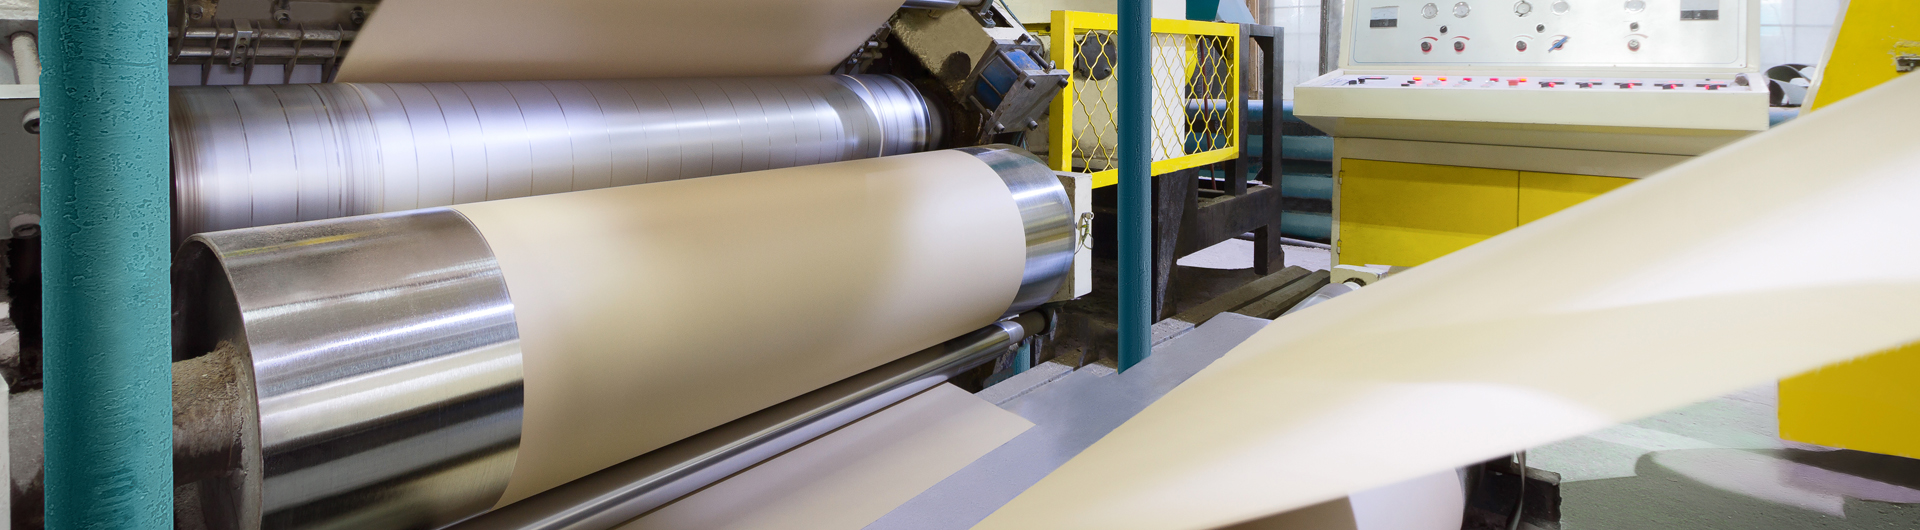
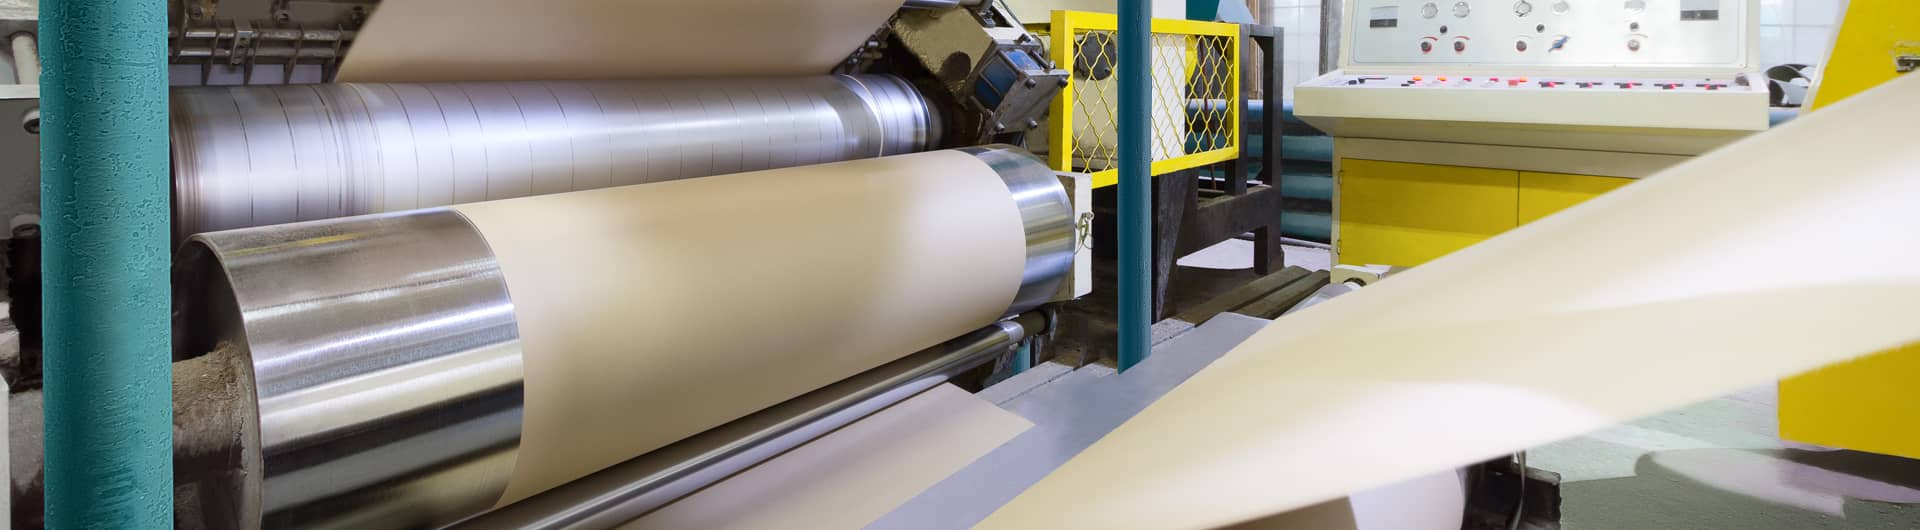
Imgs from Main and Clients converted to webp

Changed region(s): [[0.5312, 0.0302, 0.6562, 0.3321], [0.6875, 0.483, 0.7188, 0.5132]]

diff --git a/index.html b/index.html
@@ -109,7 +109,7 @@
         <div class="row align-items-center">
           <div class="col-12 col-md-5">
             <div class="main-img hidden-mobile">
-              <img src="img/main/main-img.png" alt="Картон" class="animate">
+              <img src="img/main/main-img.webp" alt="Картон" class="animate">
             </div>
             <!-- /.main-img -->
           </div>
@@ -597,32 +597,32 @@
         <div class="row">
           <div class="col-6 col-sm-6 col-md-3">
             <div class="client-block animate__animated wow animate__jackInTheBox" data-wow-delay="0.1s">
-              <img src="img/clients/client-1-black.png" alt="client-1" class="client-block__img-black">
-              <img src="img/clients/client-1.png" alt="client-1" class="client-block__img">
+              <img src="img/clients/client-1-black.webp" alt="client-1" class="client-block__img-black">
+              <img src="img/clients/client-1.webp" alt="client-1" class="client-block__img">
             </div>
             <!-- /.client-block -->
           </div>
           <!-- /.col-3 -->
           <div class="col-6 col-sm-6 col-md-3">
             <div class="client-block animate__animated wow animate__jackInTheBox" data-wow-delay="0.2s">
-              <img src="img/clients/client-2-black.png" alt="client-2" class="client-block__img-black">
-              <img src="img/clients/client-2.png" alt="client-2" class="client-block__img">
+              <img src="img/clients/client-2-black.webp" alt="client-2" class="client-block__img-black">
+              <img src="img/clients/client-2.webp" alt="client-2" class="client-block__img">
             </div>
             <!-- /.client-block -->
           </div>
           <!-- /.col-3 -->
           <div class="col-6 col-sm-6 col-md-3">
             <div class="client-block animate__animated wow animate__jackInTheBox" data-wow-delay="0.3s">
-              <img src="img/clients/client-3-black.png" alt="client-3" class="client-block__img-black">
-              <img src="img/clients/client-3.png" alt="client-3" class="client-block__img">
+              <img src="img/clients/client-3-black.webp" alt="client-3" class="client-block__img-black">
+              <img src="img/clients/client-3.webp" alt="client-3" class="client-block__img">
             </div>
             <!-- /.client-block -->
           </div>
           <!-- /.col-3 -->
           <div class="col-6 col-sm-6 col-md-3">
             <div class="client-block animate__animated wow animate__jackInTheBox" data-wow-delay="0.4s">
-              <img src="img/clients/client-4-black.png" alt="client-4" class="client-block__img-black">
-              <img src="img/clients/client-4.png" alt="client-4" class="client-block__img">
+              <img src="img/clients/client-4-black.webp" alt="client-4" class="client-block__img-black">
+              <img src="img/clients/client-4.webp" alt="client-4" class="client-block__img">
             </div>
             <!-- /.client-block -->
           </div>
@@ -632,32 +632,32 @@
         <div class="row">
           <div class="col-6 col-sm-6 col-md-3">
             <div class="client-block animate__animated wow animate__jackInTheBox" data-wow-delay="0.5s">
-              <img src="img/clients/client-5-black.png" alt="client-5" class="client-block__img-black">
-              <img src="img/clients/client-5.png" alt="client-5" class="client-block__img">
+              <img src="img/clients/client-5-black.webp" alt="client-5" class="client-block__img-black">
+              <img src="img/clients/client-5.webp" alt="client-5" class="client-block__img">
             </div>
             <!-- /.client-block -->
           </div>
           <!-- /.col-3 -->
           <div class="col-6 col-sm-6 col-md-3">
             <div class="client-block animate__animated wow animate__jackInTheBox" data-wow-delay="0.6s">
-              <img src="img/clients/client-6-black.png" alt="client-6" class="client-block__img-black">
-              <img src="img/clients/client-6.png" alt="client-6" class="client-block__img">
+              <img src="img/clients/client-6-black.webp" alt="client-6" class="client-block__img-black">
+              <img src="img/clients/client-6.webp" alt="client-6" class="client-block__img">
             </div>
             <!-- /.client-block -->
           </div>
           <!-- /.col-3 -->
           <div class="col-6 col-sm-6 col-md-3">
             <div class="client-block animate__animated wow animate__jackInTheBox" data-wow-delay="0.7s">
-              <img src="img/clients/client-7-black.png" alt="client-7" class="client-block__img-black">
-              <img src="img/clients/client-7.png" alt="client-7" class="client-block__img">
+              <img src="img/clients/client-7-black.webp" alt="client-7" class="client-block__img-black">
+              <img src="img/clients/client-7.webp" alt="client-7" class="client-block__img">
             </div>
             <!-- /.client-block -->
           </div>
           <!-- /.col-3 -->
           <div class="col-6 col-sm-6 col-md-3">
             <div class="client-block animate__animated wow animate__jackInTheBox" data-wow-delay="0.8s">
-              <img src="img/clients/client-8-black.png" alt="client-8" class="client-block__img-black">
-              <img src="img/clients/client-8.png" alt="client-8" class="client-block__img">
+              <img src="img/clients/client-8-black.webp" alt="client-8" class="client-block__img-black">
+              <img src="img/clients/client-8.webp" alt="client-8" class="client-block__img">
             </div>
             <!-- /.client-block -->
           </div>
@@ -667,32 +667,32 @@
         <div class="row ">
           <div class="col-6 col-sm-6 col-md-3 ">
             <div class="client-block animate__animated wow animate__jackInTheBox" data-wow-delay="0.9s">
-              <img src="img/clients/client-9-black.png" alt="client-9" class="client-block__img-black">
-              <img src="img/clients/client-9.png" alt="client-9" class="client-block__img">
+              <img src="img/clients/client-9-black.webp" alt="client-9" class="client-block__img-black">
+              <img src="img/clients/client-9.webp" alt="client-9" class="client-block__img">
             </div>
             <!-- /.client-block -->
           </div>
           <!-- /.col-3 -->
           <div class="col-6 col-sm-6 col-md-3">
             <div class="client-block animate__animated wow animate__jackInTheBox" data-wow-delay="1s">
-              <img src="img/clients/client-10-black.png" alt="client-10" class="client-block__img-black">
-              <img src="img/clients/client-10.png" alt="client-10" class="client-block__img">
+              <img src="img/clients/client-10-black.webp" alt="client-10" class="client-block__img-black">
+              <img src="img/clients/client-10.webp" alt="client-10" class="client-block__img">
             </div>
             <!-- /.client-block -->
           </div>
           <!-- /.col-3 -->
           <div class="col-6 col-sm-6 col-md-3">
             <div class="client-block animate__animated wow animate__jackInTheBox" data-wow-delay="1.1s">
-              <img src="img/clients/client-11-black.png" alt="client-11" class="client-block__img-black">
-              <img src="img/clients/client-11.png" alt="client-11" class="client-block__img">
+              <img src="img/clients/client-11-black.webp" alt="client-11" class="client-block__img-black">
+              <img src="img/clients/client-11.webp" alt="client-11" class="client-block__img">
             </div>
             <!-- /.client-block -->
           </div>
           <!-- /.col-3 -->
           <div class="col-6 col-sm-6 col-md-3">
             <div class="client-block animate__animated wow animate__jackInTheBox" data-wow-delay="1.2s">
-              <img src="img/clients/client-12-black.png" alt="client-12" class="client-block__img-black">
-              <img src="img/clients/client-12.png" alt="client-12" class="client-block__img">
+              <img src="img/clients/client-12-black.webp" alt="client-12" class="client-block__img-black">
+              <img src="img/clients/client-12.webp" alt="client-12" class="client-block__img">
             </div>
             <!-- /.client-block -->
           </div>
